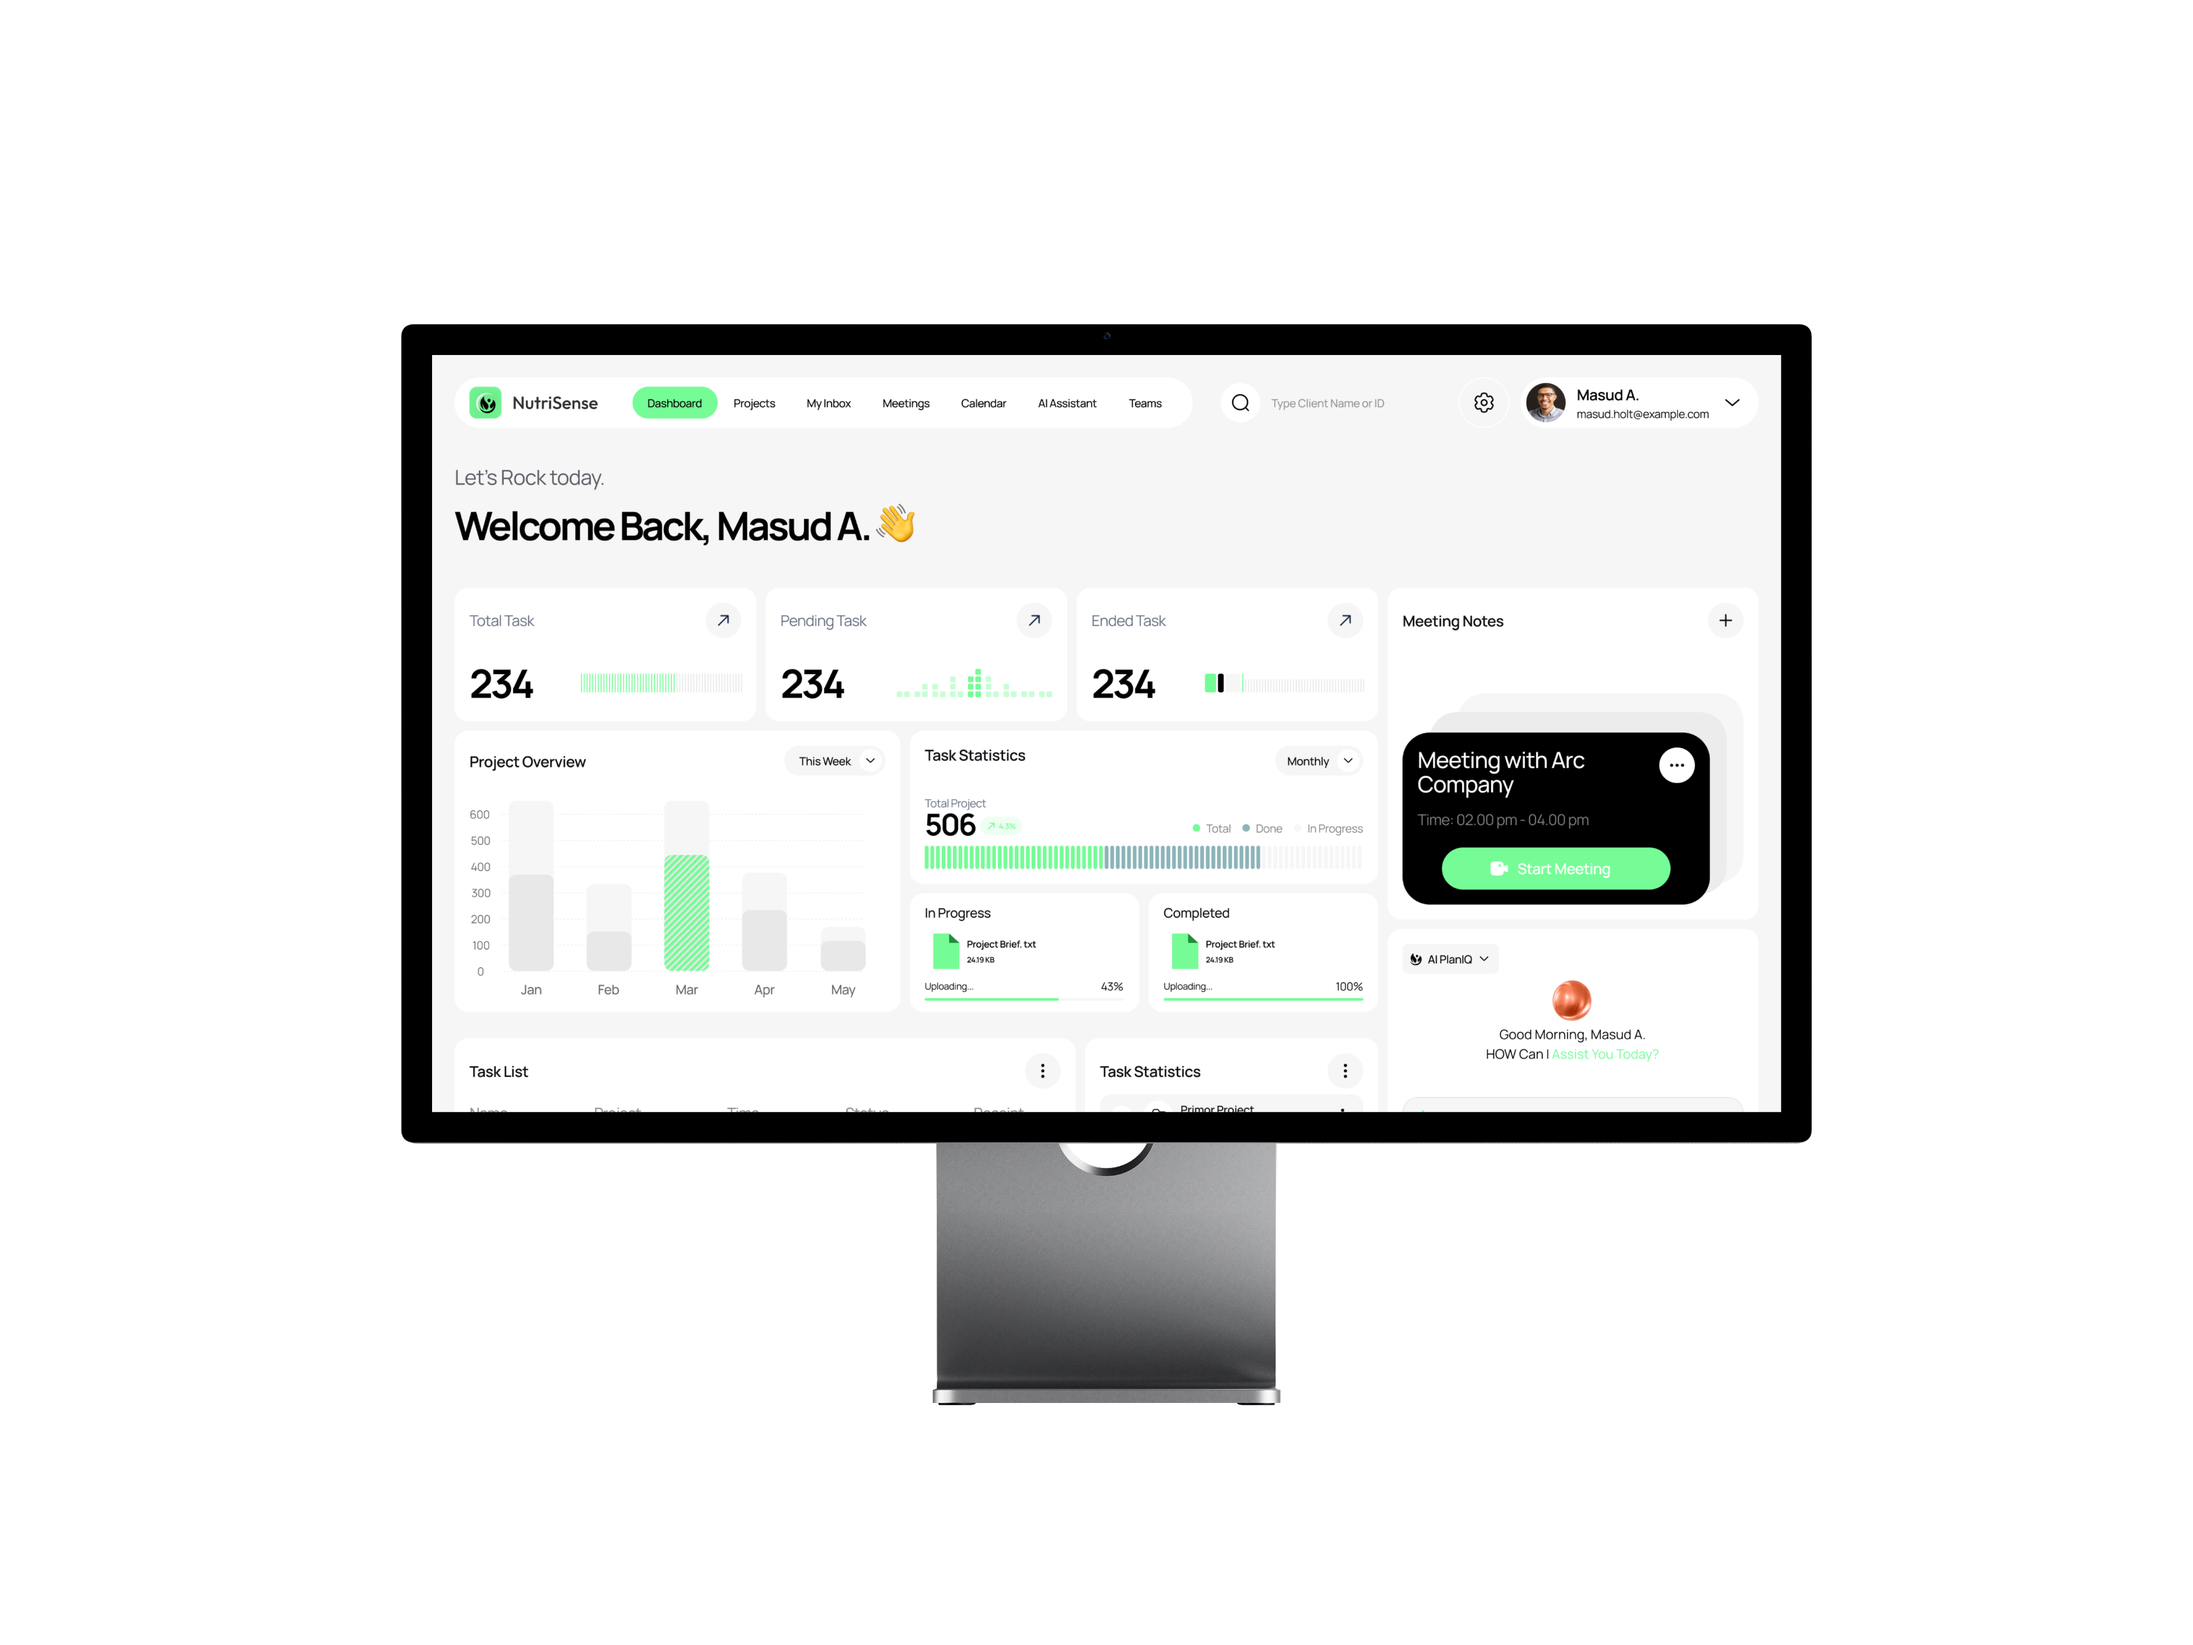
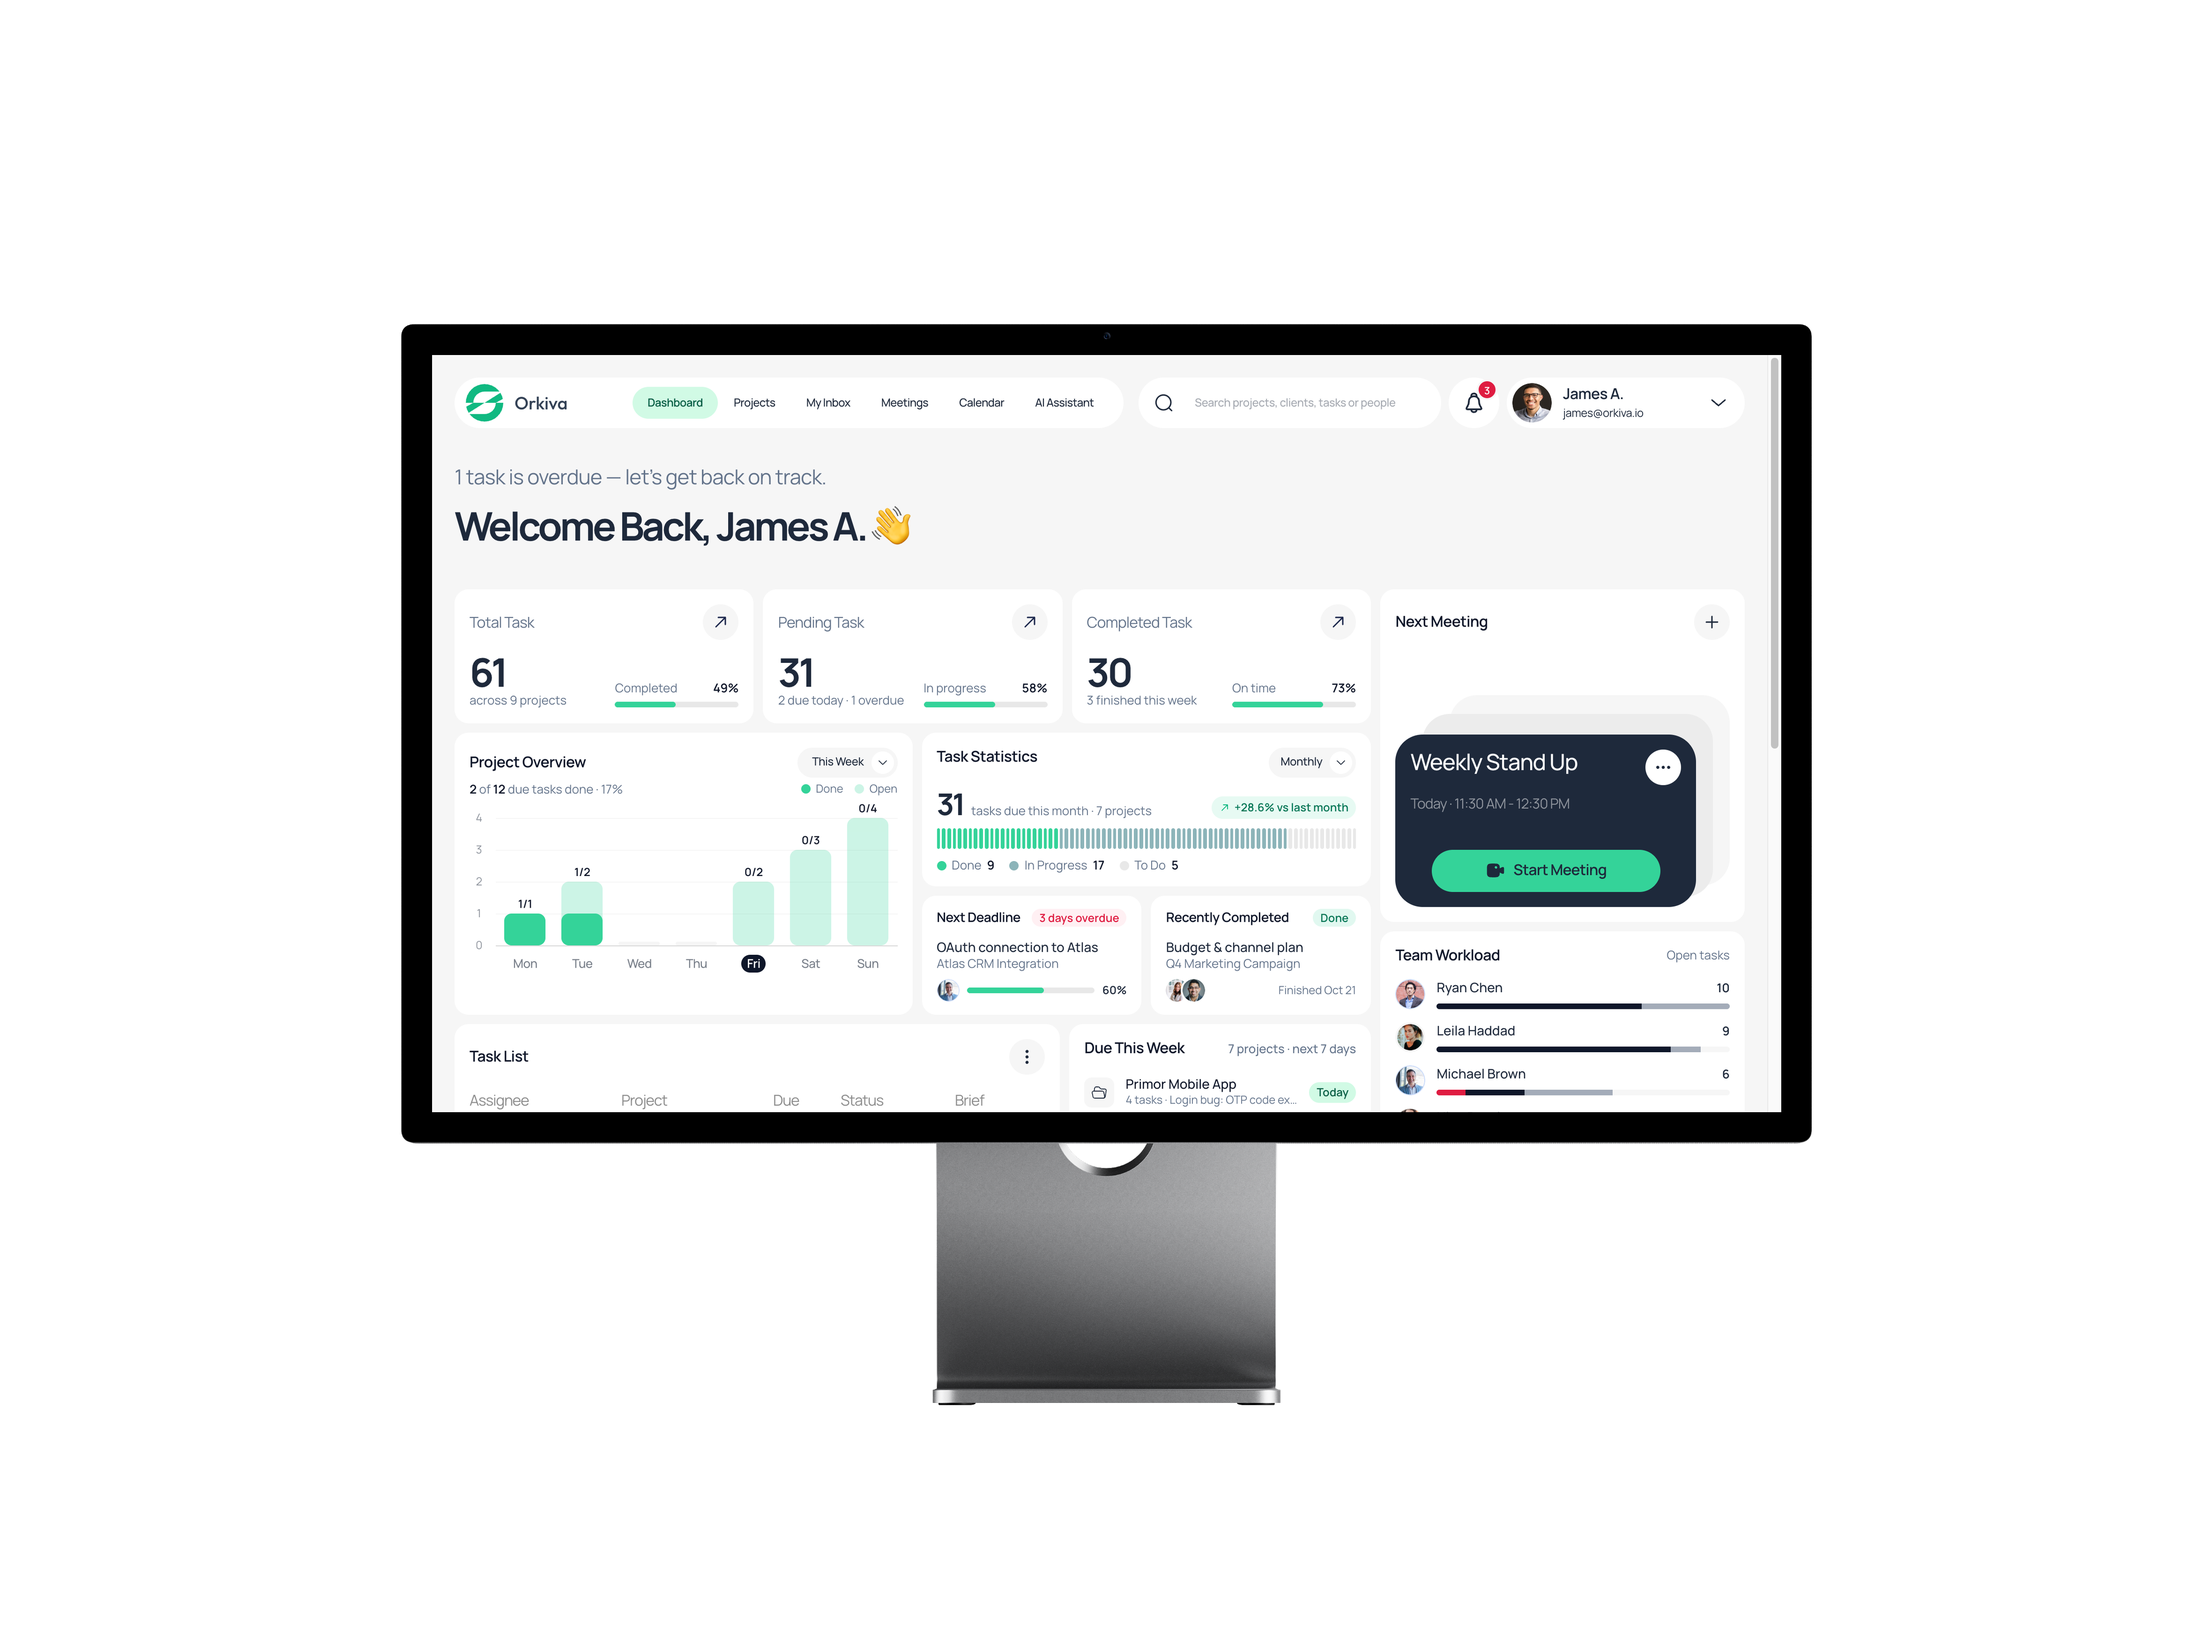
Prepare for Vercel and remove leftover PlanIQ branding
- Add vercel.json with SPA rewrites and long-lived asset caching
- Set Node engine, page title and meta description
- Replace the login monitor and dashboard screenshots with current Orkiva UI
- Rename avatar asset and drop PlanIQ mentions from CSS and README
- Document Vercel deployment in the README

diff --git a/index.html b/index.html
@@ -10,7 +10,12 @@
       href="https://fonts.googleapis.com/css2?family=Geist:wght@400;500;600&family=Manrope:wght@400;500;600;700&family=Outfit:wght@500&display=swap"
       rel="stylesheet"
     />
-    <title>Orkiva – Dashboard</title>
+    <meta name="description" content="Orkiva is a project management dashboard for teams: projects, tasks, meetings, chat and an AI assistant in one place." />
+    <meta name="theme-color" content="#f6f6f6" />
+    <meta property="og:title" content="Orkiva — Project management dashboard" />
+    <meta property="og:description" content="Projects, tasks, meetings, team chat and an AI assistant in one place." />
+    <meta property="og:type" content="website" />
+    <title>Orkiva — Project management dashboard</title>
   </head>
   <body>
     <div id="root"></div>

diff --git a/src/pages/ai/AiAssistantPage.tsx b/src/pages/ai/AiAssistantPage.tsx
@@ -17,7 +17,7 @@ import { useProjects } from '../../data/projects'
 import { DailyBrief } from '../../components/ai/DailyBrief'
 import { AttentionList } from '../../components/ai/AttentionList'
 import { formatToday } from '../../lib/dates'
-import avatar from '../../assets/dashboard/avatar-masud.png'
+import avatar from '../../assets/dashboard/avatar-james.png'
 import dashboardShot from '../../assets/projects/dashboard-shot.png'
 import menuDots from '../../assets/ai/menu-dots.svg'
 import menuDotsLg from '../../assets/ai/menu-dots-lg.svg'

diff --git a/src/components/layout/TopBar.tsx b/src/components/layout/TopBar.tsx
@@ -4,7 +4,7 @@ import logo from "../../assets/brand/orkiva-logo.svg";
 import searchCircle from "../../assets/dashboard/search-circle.svg";
 import searchIcon from "../../assets/dashboard/search.svg";
 import bellIcon from "../../assets/settings/bell.svg";
-import avatar from "../../assets/dashboard/avatar-masud.png";
+import avatar from "../../assets/dashboard/avatar-james.png";
 import chevronDown from "../../assets/dashboard/chevron-down.svg";
 import { NAV_ITEMS } from "./navItems";
 import { LogoutModal } from "../ui/LogoutModal";

diff --git a/src/data/people.ts b/src/data/people.ts
@@ -1,4 +1,4 @@
-import james from '../assets/dashboard/avatar-masud.png'
+import james from '../assets/dashboard/avatar-james.png'
 import daniel from '../assets/projects/member-1.png'
 import ryan from '../assets/projects/member-2.png'
 import marcus from '../assets/projects/member-3.png'

diff --git a/src/index.css b/src/index.css
@@ -1,6 +1,6 @@
 @import 'tailwindcss';
 
-/* Design tokens from the Orkiva (PlanIQ UI kit) Figma file */
+/* Orkiva design tokens */
 @theme {
   /* Softer than pure black everywhere text-black / bg-black is used */
   --color-black: #1e293b; /* slate-800 */

diff --git a/README.md b/README.md
@@ -100,6 +100,10 @@ src/
 
 To change the theme, edit the `--color-*` tokens in `src/index.css`. Every page picks them up.
 
-## Credits
+## Deploying to Vercel
 
-The UI is based on the PlanIQ UI kit (Figma), rebranded as Orkiva.
+1. Push the repo to GitHub and choose **Add New → Project** in Vercel.
+2. Import the repo. Vercel detects Vite automatically (build `npm run build`, output `dist`).
+3. Deploy. `vercel.json` already rewrites every route to `index.html` so deep links like `/projects` work, and caches hashed assets for a year.
+
+No environment variables are needed.
